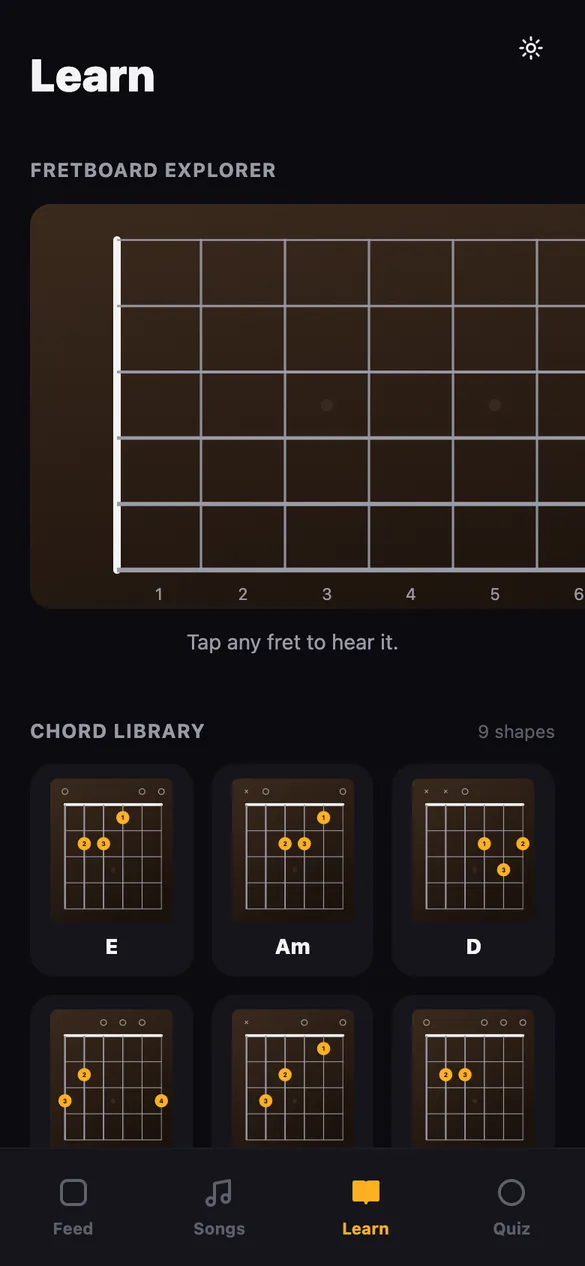
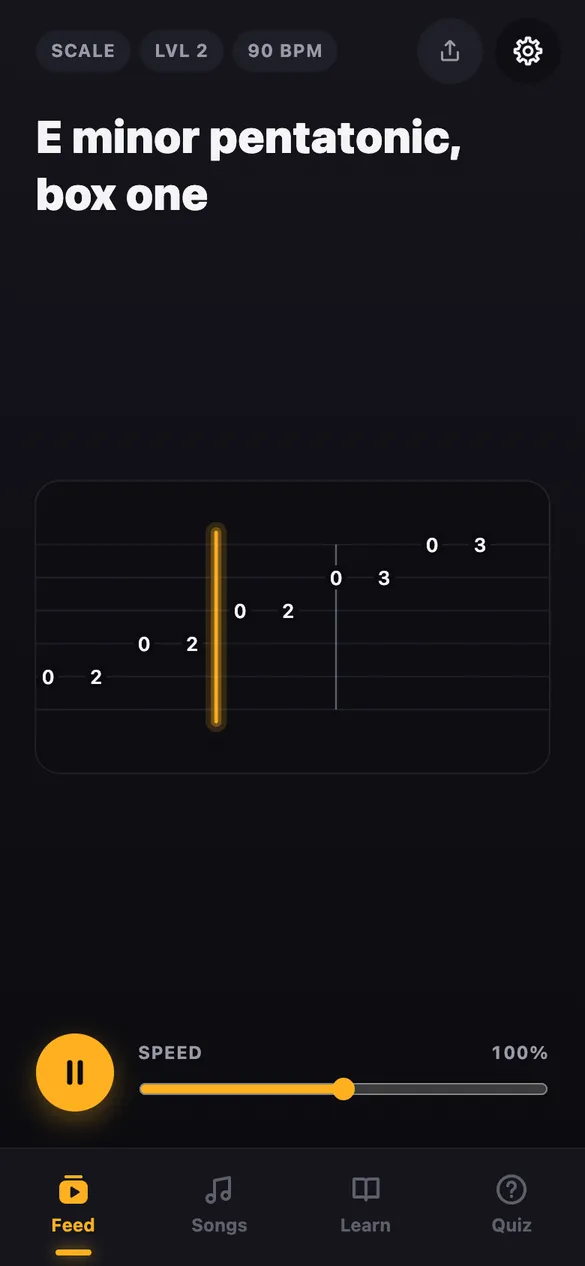
Add CeFacem, refresh guitarRot, position as web + native
- CeFacem (React + Capacitor, built with a friend) leads the project list,
  home featured work and the hero phone; screenshots and cover art
- guitarRot: new riff-feed screenshots for the hero, updated description,
  Capacitor in the stack
- Copy: hero paragraph and a "Web, iOS & Android" tile mention building
  web and native apps from one codebase
- Hero paragraph no longer fades in: it is the mobile LCP element and the
  fade pushed Lighthouse mobile performance from ~92 to ~75

diff --git a/src/data/projects.js b/src/data/projects.js
@@ -1,11 +1,25 @@
 export const projects = [
 	{
+		id: 16,
+		title: 'CeFacem',
+		description: 'Small local meetups, on web, iOS and Android',
+		descriptionExpanded:
+			'A social app I built with a friend for meeting new people at small events nearby: coffee, football, hikes, concerts. Pick a city and a day, browse the feed or the map, and join in two taps. One React codebase runs on the web and, through Capacitor, as native iOS and Android apps.',
+		technologies: ['React', 'Capacitor', 'Vite', 'TailwindCSS', 'MapLibre'],
+		category: 'Mobile App',
+		image: '/images/projects/cefacem_cover.webp',
+		screenshot: '/images/projects/cefacem.webp',
+		imageMobile: '/images/projects/cefacem_mobile.webp',
+		imageScroll: '/images/projects/cefacem_scroll.webp',
+		url: 'https://cefacem.com/',
+	},
+	{
 		id: 14,
 		title: 'guitarRot',
-		description: 'Mobile-first guitar trainer with a playable fretboard',
+		description: 'Guitar lessons and a riff feed, on web, iOS and Android',
 		descriptionExpanded:
-			'A mobile-first guitar learning app that turns a phone into a practice companion. Tap any fret on the interactive fretboard to hear the note, open the chord library where every shape strums on tap, and study scale positions box by box. Sound is synthesized live with the Web Audio API, and an app-style tab bar splits the experience into Feed, Songs, Learn and Quiz.',
-		technologies: ['React', 'Vite', 'TailwindCSS', 'Web Audio API', 'Vercel'],
+			"A guitar app that swaps doomscrolling for practice: a vertical feed of riffs, scales and chords with animated tab you can slow down, a 28-lesson course from your first string to your first song, a tuner and quick quizzes. Sound is synthesized live with the Web Audio API, and Capacitor ships the same React codebase as native iOS and Android apps.",
+		technologies: ['React', 'Capacitor', 'Vite', 'TailwindCSS', 'Web Audio API'],
 		category: 'Mobile App',
 		image: '/images/projects/guitar_rot_cover.webp',
 		imageMobile: '/images/projects/guitar_rot_mobile.webp',
@@ -212,7 +226,7 @@ export const projects = [
 
 export const isLive = (project) => Boolean(project.url) && project.url !== '#'
 
-const featuredIds = [14, 4, 6, 2, 11, 3]
+const featuredIds = [16, 14, 4, 6, 2, 11, 3]
 
 export const getFeaturedProjects = () => featuredIds.map((id) => projects.find((p) => p.id === id))
 

diff --git a/src/components/sections/Expertise.jsx b/src/components/sections/Expertise.jsx
@@ -1,7 +1,7 @@
 'use client'
 
 import { animate, onScroll, stagger, utils } from 'animejs'
-import { Check, Layers, MousePointerClick, Target, TrendingUp } from 'lucide-react'
+import { Check, Layers, MousePointerClick, Smartphone, Target } from 'lucide-react'
 import { useAnime } from '@/lib/anime'
 
 // This site's home page, Google Lighthouse (mobile), Oct 2026. Re-measure after big changes.
@@ -15,7 +15,7 @@ const scores = [
 const points = [
 	{ Icon: Layers, title: 'Whole product', text: 'Frontend to database, no hand-offs.' },
 	{ Icon: MousePointerClick, title: 'Motion with purpose', text: 'Feels alive, never in the way.' },
-	{ Icon: TrendingUp, title: 'Built to grow', text: 'New features without rewrites.' },
+	{ Icon: Smartphone, title: 'Web, iOS & Android', text: 'One codebase, real native apps.' },
 	{ Icon: Target, title: 'Product thinking', text: 'Your goals first, then the code.' },
 ]
 

diff --git a/src/components/sections/Hero.jsx b/src/components/sections/Hero.jsx
@@ -73,10 +73,11 @@ const Hero = () => {
 						))}
 					</h1>
 
-					<p data-intro className="mt-7 max-w-[40ch] text-lg text-fg-2 md:text-xl">
+					{/* No intro fade: this paragraph is the largest thing on a phone screen (LCP) */}
+					<p className="mt-7 max-w-[40ch] text-lg text-fg-2 md:text-xl">
 						I&apos;m <span className="font-semibold text-fg">Ioan Lipan</span>, a front-end and full-stack
-						developer in Bucharest. For five years I&apos;ve built products people enjoy using, with teams around
-						the world.
+						developer in Bucharest. I build for the web, iOS and Android from one codebase, and for five years
+						I&apos;ve shipped products people enjoy using.
 					</p>
 					<div data-intro className="mt-8 flex flex-wrap gap-3">
 						<Link href="#work" className="btn btn-primary">

diff --git a/src/components/sections/HeroShowcase.jsx b/src/components/sections/HeroShowcase.jsx
@@ -8,7 +8,7 @@ import { projects, isLive } from '@/data/projects'
 import { REDUCE } from '@/lib/anime'
 import ProjectSheet from '@/components/ui/ProjectSheet'
 
-const reel = projects.slice(0, 5) // top five projects; each needs imageMobile + imageScroll
+const reel = projects.slice(0, 6) // top six projects; each needs imageMobile + imageScroll
 const HOLD = 900 // ms resting at the top and bottom of each page
 
 /**
